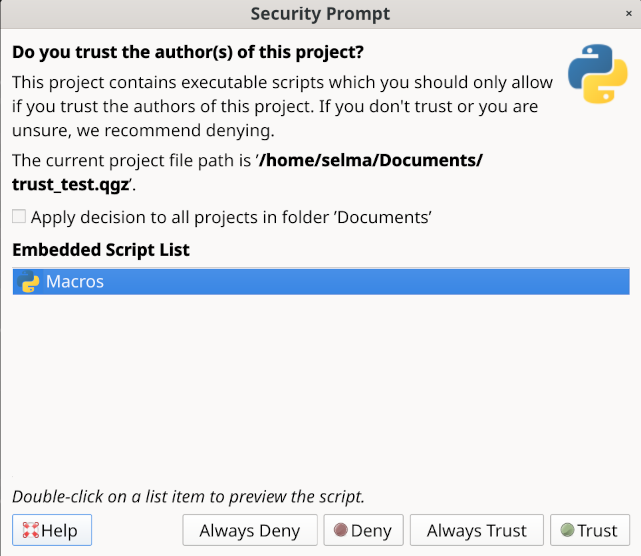
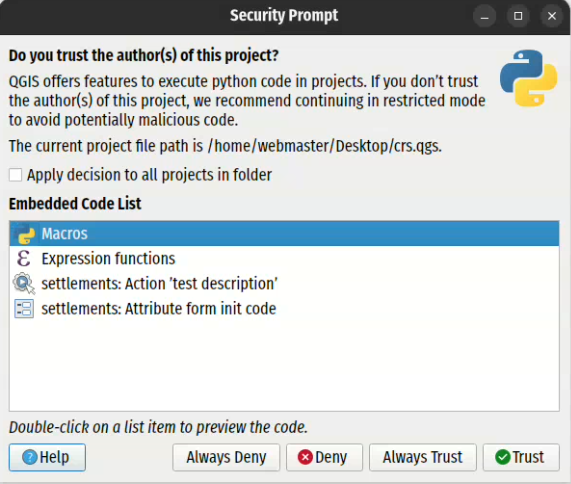
Fixes and suggestions

diff --git a/docs/user_manual/introduction/qgis_configuration.rst b/docs/user_manual/introduction/qgis_configuration.rst
@@ -109,6 +109,13 @@ displayed at the bottom of the frame.
 
 **Project files**
 
+.. _figure_project_files_settings:
+
+.. figure:: img/project_files_settings.png
+   :align: center
+
+   Project Files Settings
+
 * :guilabel:`Open project on launch`
 
   * 'Welcome Page' (default): can display the "News" feed, the project
@@ -155,10 +162,11 @@ displayed at the bottom of the frame.
 
 **Project Trust**
 
-These options control how QGIS handles execution of embedded Python code contained
-in project files. Embedded code includes macros, custom expression functions,
-Python-based actions and attribute form initialization code. QGIS allows you to
-manage trust on a per-project or per-folder basis.
+These options control how QGIS handles execution of scripts
+in project files. Embedded code includes :ref:`macros <project_macros>`, :ref:`custom expression functions <vector_expressions>`,
+:ref:`actions <actions_menu>` and :ref:`attribute form initialization code <form_custom_functions>`. QGIS allows you to
+manage trust on a per-project or per-folder basis. When a project or folder is trusted, this applies to **all embedded scripts**
+contained within. Trust cannot be granted to individual scripts.
 
 .. _figure_project_trust_settings:
 
@@ -167,30 +175,32 @@ manage trust on a per-project or per-folder basis.
 
    Project Trust Settings
 
-* :guilabel:`Behavior for untrusted project's embedded Python code`:
+* :guilabel:`Behavior for embedded scripts within projects of undetermined trust`:
   Use the dropdown menu to select how QGIS should respond when opening a project
   whose trust status has not yet been decided. Options include:
 
-  * :guilabel:`Never Execute`: block execution of all embedded Python code.
-  * :guilabel:`Never Ask for Trust`: execute all embedded Python code automatically for trusted projects or folders,
-    without prompting. Denied projects are still blocked.
-  * :guilabel:`Ask for Trust`: QGIS will display a trust dialog listing all embedded code and
+  * :guilabel:`Never Execute`: block execution of all embedded scripts.
+  * :guilabel:`Never Ask for Trust`: no request for project trust is made;
+    undetermined or already denied projects have their embedded scripts blocked.
+    Only trusted projects or folders have their embedded scripts executed.
+  * :guilabel:`Ask for Trust`: QGIS will display a trust dialog (see :numref:`figure_security_prompt`) listing all embedded scripts and
     prompt you to allow or deny execution.
-  * :guilabel:`Always Execute (Not recommended)`: enable execution of all embedded Python code.
+  * :guilabel:`Always Execute (Not recommended)`: enable execution of all embedded scripts;
+    not recommended because it bypasses all safety checks and can run untrusted or malicious code without prompting.
 
-* :guilabel:`Trusted projects and folders allowed Python code execution`:
+* :guilabel:`Trusted projects and folders allowing embedded script execution`:
   This list shows project files or folders that you have explicitly marked as
   trusted. Projects located in these paths are allowed to run their embedded
-  Python code without prompting. Use the |symbologyAdd|:sup:`Add new trusted project` or
+  scripts without prompting. Use the |symbologyAdd|:sup:`Add new trusted project` or
   |symbologyRemove|:sup:`Remove trusted project or folder` buttons to manage the list.
 
-* :guilabel:`Denied projects and folders Python code execution`:
+* :guilabel:`Untrusted projects and folders denied embedded script execution`:
   Paths listed here are explicitly marked as untrusted. Projects stored in these
-  locations will never run embedded Python code. Use the |symbologyAdd|:sup:`Add new project denial` or
+  locations will never run embedded scripts. Use the |symbologyAdd|:sup:`Add new project denial` or
   |symbologyRemove|:sup:`Remove denied project or folder` buttons to
   maintain the list.
 
-When opening a project containing embedded Python code and whose trust state is
+When opening a project containing embedded scripts and whose trust state is
 not yet known, QGIS will present a trust dialog. The dialog shows all embedded
 code blocks and allows you to preview them before deciding whether to trust the
 project.
